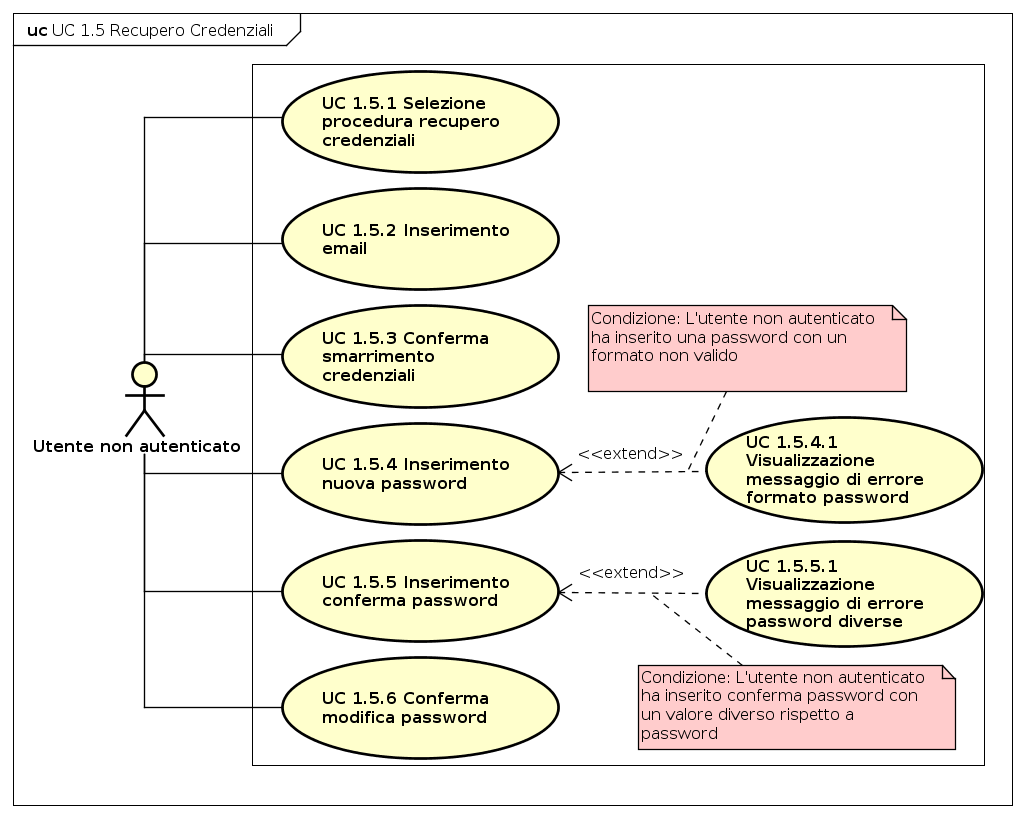
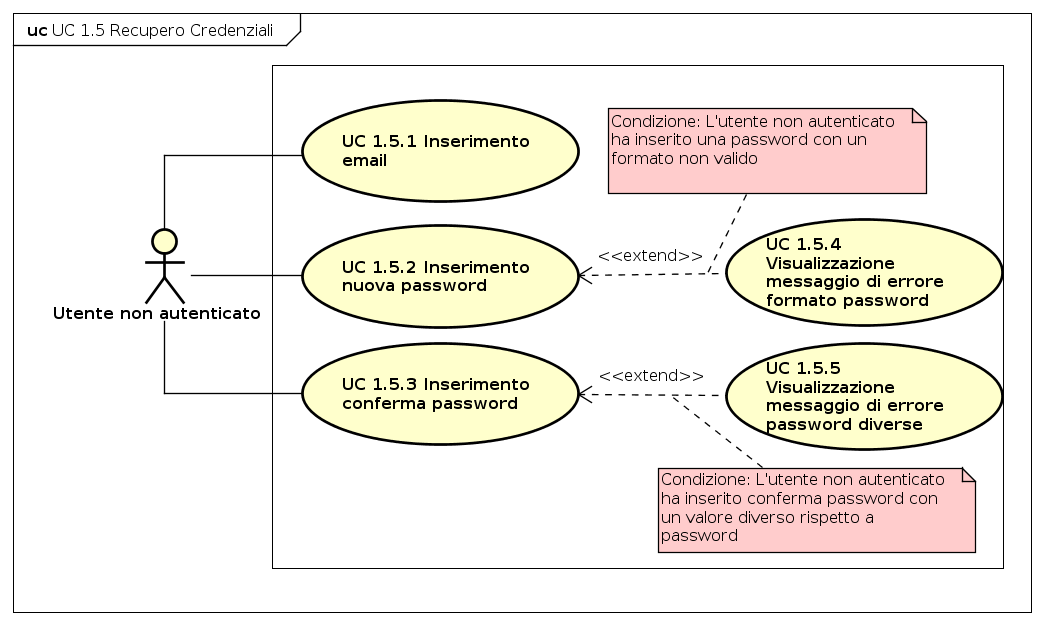
Sistemato UC utente generico

diff --git a/RP/Analisi_dei_requisiti/sez/utenteGenerico.tex b/RP/Analisi_dei_requisiti/sez/utenteGenerico.tex
@@ -201,25 +201,25 @@
 	\item[•]\textbf{Postcondizione}: l’utente ha inviato la richiesta di recupero;
 	\item[•]\textbf{Flusso degli eventi}:
 	\begin{enumerate}
-	\item UC 1.5.1 - Selezione procedura recupero credenziali;
-	\item UC 1.5.2 - Inserimento email;
-	\item UC 1.5.3 - Conferma smarrimento credenziali;
-	\item UC 1.5.4 - Inserimento nuova password;
-	\item UC 1.5.5 - Inserimento conferma password;
-	\item UC 1.5.6 - Conferma modifica password.
+	\item Selezione procedura recupero credenziali;
+	\item UC 1.5.1 - Inserimento email;
+	\item Conferma smarrimento credenziali;
+	\item UC 1.5.2 - Inserimento nuova password;
+	\item UC 1.5.3 - Inserimento conferma password;
+	\item Conferma modifica password.
 	\end{enumerate}
 \end{itemize}
 
-\subsubsection{UC 1.5.1 - Selezione procedura recupero credenziali}
-\begin{itemize}
-	\item[•]\textbf{Attori}: Utente non autenticato;
-	\item[•]\textbf{Descrizione}: l’utente seleziona il collegamento che conduce alla pagina di recupero delle credenziali;
-	\item[•]\textbf{Precondizione}: l’utente non è autenticato;
-	\item[•]\textbf{Postcondizione}: l’utente visualizza la pagina di recupero delle credenziali;
-	\item[•]\textbf{Flusso degli eventi}: l'utente non autenticato seleziona l'opzione per il recupero delle credenziali e viene automaticamente reindirizzato alla pagina di recupero. 
-\end{itemize}
+%\subsubsection{UC 1.5.1 - Selezione procedura recupero credenziali}
+%\begin{itemize}
+%	\item[•]\textbf{Attori}: Utente non autenticato;
+%	\item[•]\textbf{Descrizione}: l’utente seleziona il collegamento che conduce alla pagina di recupero delle credenziali;
+%	\item[•]\textbf{Precondizione}: l’utente non è autenticato;
+%	\item[•]\textbf{Postcondizione}: l’utente visualizza la pagina di recupero delle credenziali;
+%	\item[•]\textbf{Flusso degli eventi}: l'utente non autenticato seleziona l'opzione per il recupero delle credenziali e viene automaticamente reindirizzato alla pagina di recupero. 
+%\end{itemize}
 
-\subsubsection{UC 1.5.2 - Inserimento email}
+\subsubsection{UC 1.5.1 - Inserimento email}
 \begin{itemize}
 	\item[•]\textbf{Attori}: Utente non autenticato;
 	\item[•]\textbf{Descrizione}: l’utente non autenticato inserisce l'email utilizzata in fase di registrazione;
@@ -228,37 +228,29 @@
 	\item[•]\textbf{Flusso degli eventi}: l'utente non autenticato inserisce una stringa che rappresenta la email utilizzata in fase di registrazione. 
 \end{itemize}
 
-\subsubsection{UC 1.5.3 - Conferma smarrimento credenziali}
-\begin{itemize}
-	\item[•]\textbf{Attori}: Utente non autenticato;
-	\item[•]\textbf{Descrizione}: l’utente non autenticato conferma lo smarrimento delle credenziali;
-	\item[•]\textbf{Precondizione}: l’utente non è autenticato;
-	\item[•]\textbf{Postcondizione}: l’utente ha confermato lo smarrimento delle credenziali. Il sistema provvede a inviare una mail con il collegamento per il recupero password;
-	\item[•]\textbf{Flusso degli eventi}: l'utente non autenticato conferma lo smarrimento delle credenziali. 
-\end{itemize}
+%\subsubsection{UC 1.5.3 - Conferma smarrimento credenziali}
+%\begin{itemize}
+%	\item[•]\textbf{Attori}: Utente non autenticato;
+%	\item[•]\textbf{Descrizione}: l’utente non autenticato conferma lo smarrimento delle credenziali;
+%	\item[•]\textbf{Precondizione}: l’utente non è autenticato;
+%	\item[•]\textbf{Postcondizione}: l’utente ha confermato lo smarrimento delle credenziali. Il sistema provvede a inviare una mail con il collegamento per il recupero password;
+%	\item[•]\textbf{Flusso degli eventi}: l'utente non autenticato conferma lo smarrimento delle credenziali. 
+%\end{itemize}
 
-\subsubsection{UC 1.5.4 - Inserimento nuova password}
+\subsubsection{UC 1.5.2 - Inserimento nuova password}
 \begin{itemize}
 	\item[•]\textbf{Attori}: Utente non autenticato;
 	\item[•]\textbf{Descrizione}: l’utente non autenticato inserisce la nuova password;
-	\item[•]\textbf{Precondizione}: l’utente non autenticato ha confermato lo smarrimento delle credenziali e visualizza il contenuto del collegamento ricevuto tramite email;
+	\item[•]\textbf{Precondizione}: l’utente non autenticato visualizza il contenuto del collegamento ricevuto tramite email;
 	\item[•]\textbf{Postcondizione}: l'utente ha inserito la nuova password;
 	\item[•]\textbf{Flusso degli eventi}: l'utente non autenticato seleziona il campo di input relativo all'inserimento della nuova password e inserisce una stringa che rappresenta la nuova password.
 	\item[•]\textbf{Estensioni}:
 	\begin{enumerate}
-		\item UC 1.5.4.1 - Visualizzazione messaggio di errore formato password;
+		\item UC 1.5.4 - Visualizzazione messaggio di errore formato password;
 	\end{enumerate}
 \end{itemize}
-\subsubsection{UC 1.5.4.1 - Visualizzazione messaggio di errore formato password}
-\begin{itemize}
-	\item[•]\textbf{Attori}: Utente non autenticato;
-	\item[•]\textbf{Descrizione}: l’utente non autenticato visualizza un messaggio di errore in quanto la password inserita non soddisfa i requisiti richiesti;
-	\item[•]\textbf{Precondizione}: l’utente non autenticato ha inserito la nuova password;
-	\item[•]\textbf{Postcondizione}: l'utente non autenticato visualizza un messaggio di errore relativo all'inserimento di una password che non soddisfa i requisiti richiesti;
-	\item[•]\textbf{Flusso degli eventi}: l'utente non autenticato ha inserito una password con un formato non idoneo, pertanto visualizza un messaggio di errore.
-\end{itemize}
 
-\subsubsection{UC 1.5.5 - Inserimento conferma password}
+\subsubsection{UC 1.5.3 - Inserimento conferma password}
 \begin{itemize}
 	\item[•]\textbf{Attori}: Utente non autenticato;
 	\item[•]\textbf{Descrizione}: l’utente non autenticato re-inserisce la nuova password;
@@ -267,11 +259,20 @@
 	\item[•]\textbf{Flusso degli eventi}: l'utente non autenticato seleziona il campo di input relativo all'inserimento della conferma password e re-inserisce la nuova password.
 	\item[•]\textbf{Estensioni}:
 	\begin{enumerate}
-		\item UC 1.5.5.1 - Visualizzazione messaggio di errore password diverse;
+		\item UC 1.5.5 - Visualizzazione messaggio di errore password diverse;
 	\end{enumerate}
 \end{itemize}
 
-\subsubsection{UC 1.5.5.1 - Visualizzazione messaggio di errore password diverse}
+\subsubsection{UC 1.5.4 - Visualizzazione messaggio di errore formato password}
+\begin{itemize}
+	\item[•]\textbf{Attori}: Utente non autenticato;
+	\item[•]\textbf{Descrizione}: l’utente non autenticato visualizza un messaggio di errore in quanto la password inserita non soddisfa i requisiti richiesti;
+	\item[•]\textbf{Precondizione}: l’utente non autenticato ha inserito la nuova password;
+	\item[•]\textbf{Postcondizione}: l'utente non autenticato visualizza un messaggio di errore relativo all'inserimento di una password che non soddisfa i requisiti richiesti;
+	\item[•]\textbf{Flusso degli eventi}: l'utente non autenticato ha inserito una password con un formato non idoneo, pertanto visualizza un messaggio di errore.
+\end{itemize}
+
+\subsubsection{UC 1.5.5 - Visualizzazione messaggio di errore password diverse}
 \begin{itemize}
 	\item[•]\textbf{Attori}: Utente non autenticato;
 	\item[•]\textbf{Descrizione}: l’utente non autenticato visualizza un messaggio di errore in quanto la conferma password inserita non ha lo stesso valore della password precedente;
@@ -280,11 +281,11 @@
 	\item[•]\textbf{Flusso degli eventi}: l'utente non autenticato ha inserito la conferma password con un valore diverso rispetto alla password precendentemente inserita, pertanto visualizza un messaggio di errore.
 \end{itemize}
 
-\subsubsection{UC 1.5.6 - Conferma modifica password}
-\begin{itemize}
-	\item[•]\textbf{Attori}: Utente non autenticato;
-	\item[•]\textbf{Descrizione}: l’utente non autenticato conferma la modifica delle password;
-	\item[•]\textbf{Precondizione}: l’utente non autenticato ha inserito la conferma della nuova password (UC 1.5.5);
-	\item[•]\textbf{Postcondizione}: l'utente viene reindirizzato alla pagina di autenticazione;
-	\item[•]\textbf{Flusso degli eventi}: l'utente non autenticato conferma la modifica della password e viene reindirizzato alla pagina di autenticazione.
-\end{itemize}
+%\subsubsection{UC 1.5.6 - Conferma modifica password}
+%\begin{itemize}
+%	\item[•]\textbf{Attori}: Utente non autenticato;
+%	\item[•]\textbf{Descrizione}: l’utente non autenticato conferma la modifica delle password;
+%	\item[•]\textbf{Precondizione}: l’utente non autenticato ha inserito la conferma della nuova password (UC 1.5.5);
+%	\item[•]\textbf{Postcondizione}: l'utente viene reindirizzato alla pagina di autenticazione;
+%	\item[•]\textbf{Flusso degli eventi}: l'utente non autenticato conferma la modifica della password e viene reindirizzato alla pagina di autenticazione.
+%\end{itemize}
